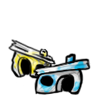
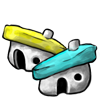
image for home base

diff --git a/client/app/assets/javascripts/awe/UI/maincontrolsview.js b/client/app/assets/javascripts/awe/UI/maincontrolsview.js
@@ -24,6 +24,8 @@ AWE.UI = (function(module) {
     var _shopButton;
     var _resourcesShape;
     
+    var _settlementImageName = null;
+    
     var _presentGender = null;
     
     var _resource1LabelView;
@@ -147,10 +149,12 @@ AWE.UI = (function(module) {
         _heroHeadImageView.setText(name);
       }
   
-      if (!_villageImageView) {
+      if (!_villageImageView) {   
+        _settlementImageName = "map/colony/small";
+             
         _villageImageView = AWE.UI.createImageView();
-        _villageImageView.initWithControllerAndImage(my.controller, AWE.UI.ImageCache.getImage("map/colony/big"));
-        _villageImageView.setFrame(AWE.Geometry.createRect(293, 20, 100, 100));
+        _villageImageView.initWithControllerAndImage(my.controller, AWE.UI.ImageCache.getImage(_settlementImageName));
+        _villageImageView.setFrame(AWE.Geometry.createRect(304, 48, 80, 80));
         _villageImageView.onClick = function() {
           var baseControllerActive = WACKADOO.baseControllerActive();
           WACKADOO.baseButtonClicked(); // TODO: this is a hack. HUD must be connected by screen controller or should go to application controller.
@@ -160,6 +164,32 @@ AWE.UI = (function(module) {
         }; 
         this.addChild(_villageImageView);
       }
+      
+      if (AWE.GS.player.get('currentCharacter')) {
+        var settlement = AWE.GS.SettlementManager.getHomeBaseOfCharacter(AWE.GS.player.get('currentCharacter'));
+        if (!settlement) {
+          var self = this;
+          AWE.GS.SettlementManager.updateHomeBaseOfCharacter(AWE.GS.player.get('currentCharacter'), AWE.GS.ENTITY_UPDATE_TYPE_FULL, function() {
+            self.setNeedsUpdate();
+          });
+        }
+        else {
+          var level = AWE.Util.Rules.normalizedLevel(settlement.get('score'), settlement.get('type_id'));
+          var newSettlementImageName = 'map/colony/small'
+          if (level > 3) {
+            newSettlementImageName   = 'map/colony/middle';
+          }
+          if (level > 7) {
+            newSettlementImageName   = 'map/colony/big';
+          }
+      
+          if (newSettlementImageName != _settlementImageName && _villageImageView) {
+            _settlementImageName = newSettlementImageName;
+            _villageImageView.setImage(AWE.UI.ImageCache.getImage(_settlementImageName));
+          }
+        }
+      }
+      
 
       // Messages
       if (!_messagesButton) {

diff --git a/client/app/assets/javascripts/wackadoo.js b/client/app/assets/javascripts/wackadoo.js
@@ -220,8 +220,8 @@ window.WACKADOO = AWE.Application.MultiStageApplication.create(function() {
         controller.init(AWE.Geometry.createRect(-30000000,-30000000,60000000,60000000));  // TODO init with users main location
         self.set('mapScreenController', controller);
       
-        $('#zoomin').click(function(){ WACKADOO.get('presentScreenController').zoom(0.1, true); });   //controller.zoom(.1, true)});   // TODO: this is linked to the map controller and will send events even in case the controller's gone
-        $('#zoomout').click(function(){ WACKADOO.get('presentScreenController').zoom(0.1, false); }); //controller.zoom(.1, false)});
+       // $('#zoomin').click(function(){ WACKADOO.get('presentScreenController').zoom(0.1, true); });   //controller.zoom(.1, true)});   // TODO: this is linked to the map controller and will send events even in case the controller's gone
+       // $('#zoomout').click(function(){ WACKADOO.get('presentScreenController').zoom(0.1, false); }); //controller.zoom(.1, false)});
   
   
         var tutorialState = AWE.GS.TutorialStateManager.getTutorialState();

diff --git a/client/app/assets/javascripts/awe/UI/baseview.js b/client/app/assets/javascripts/awe/UI/baseview.js
@@ -78,10 +78,10 @@ AWE.UI = (function(module) {
         _poleGraphics.setStrokeStyle(1);
         _poleGraphics.beginStroke(Graphics.getRGB(0,0,0));
         _poleGraphics.beginFill(Graphics.getRGB(32, 32, 32));
-        _poleGraphics.drawRoundRect(0, 0, 2, 36, 0);
+        _poleGraphics.drawRoundRect(0, 0, 2, 26, 0);
         _poleShape = AWE.UI.createShapeView();
         _poleShape.initWithControllerAndGraphics(my.controller, _poleGraphics);
-        _poleShape.setFrame(AWE.Geometry.createRect(44, 0, 2, 48));
+        _poleShape.setFrame(AWE.Geometry.createRect(46, 0, 2, 48));
         this.addChildAt(_poleShape, 0);
       }
       
@@ -130,7 +130,7 @@ AWE.UI = (function(module) {
       if (!_flagView) {
         _flagView = AWE.UI.createAllianceFlagView();
         _flagView.initWithController(my.controller);
-        _flagView.setFrame(AWE.Geometry.createRect(16, 0, 28, 16));
+        _flagView.setFrame(AWE.Geometry.createRect(18, 0, 28, 16));
         _flagView.setAllianceId(allianceId);
         _flagView.setDirection('left');
         that.addChild(_flagView);

diff --git a/client/app/assets/javascripts/awe/gamestate/settlement.js b/client/app/assets/javascripts/awe/gamestate/settlement.js
@@ -314,6 +314,17 @@ AWE.GS = (function(module) {
       return AWE.GS.SettlementAccess.getAllForOwner_id(AWE.GS.CharacterManager.getCurrentCharacter().getId());
     }
     
+    that.getHomeBaseOfCharacter = function(character) {
+      var locationId = character.get('base_location_id');
+      return locationId ? this.getSettlementAtLocation(locationId) : null;
+    }
+    
+    /** updates the home settlement of the given character. */
+    that.updateHomeBaseOfCharacter = function(character, updateType, callback) {
+      var locationId = character.get('base_location_id');
+      return this.updateSettlementsAtLocation(locationId, updateType, callback);
+    }        
+    
     /** returns the settlement at locationId or null, if there is no settlement or data. */
     that.getSettlementAtLocation = function(locationId) {
       var settlements = AWE.GS.SettlementAccess.getAllForLocation_id(locationId);

diff --git a/client/app/assets/javascripts/awe/UI/baseinspectorview.js b/client/app/assets/javascripts/awe/UI/baseinspectorview.js
@@ -130,7 +130,7 @@ AWE.UI = (function(module) {
                 
         _imageView = AWE.UI.createImageView();
         _imageView.initWithControllerAndImage(my.controller, AWE.UI.ImageCache.getImage(imageName));
-        _imageView.setFrame(AWE.Geometry.createRect(200, 16, 96, 96));
+        _imageView.setFrame(AWE.Geometry.createRect(212, 36, 64, 64));
         //_imageView.onClick = that.onClick;
         _imageView.onClick = function() { my.controller.moveTo(_location); };
         _imageView.onMouseOver = that.onMouseOver;
